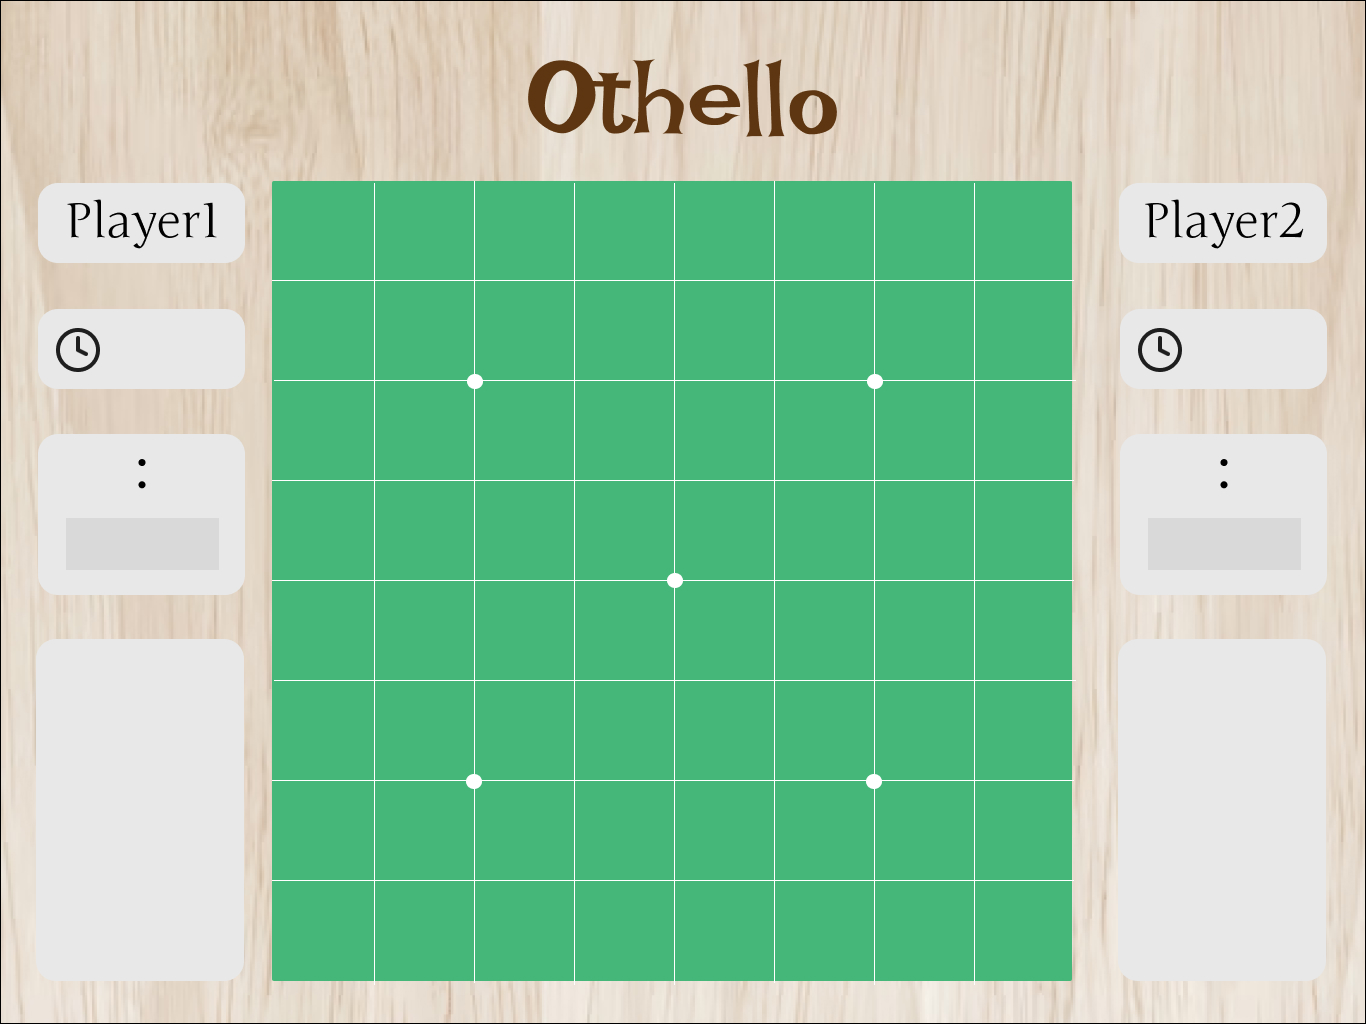
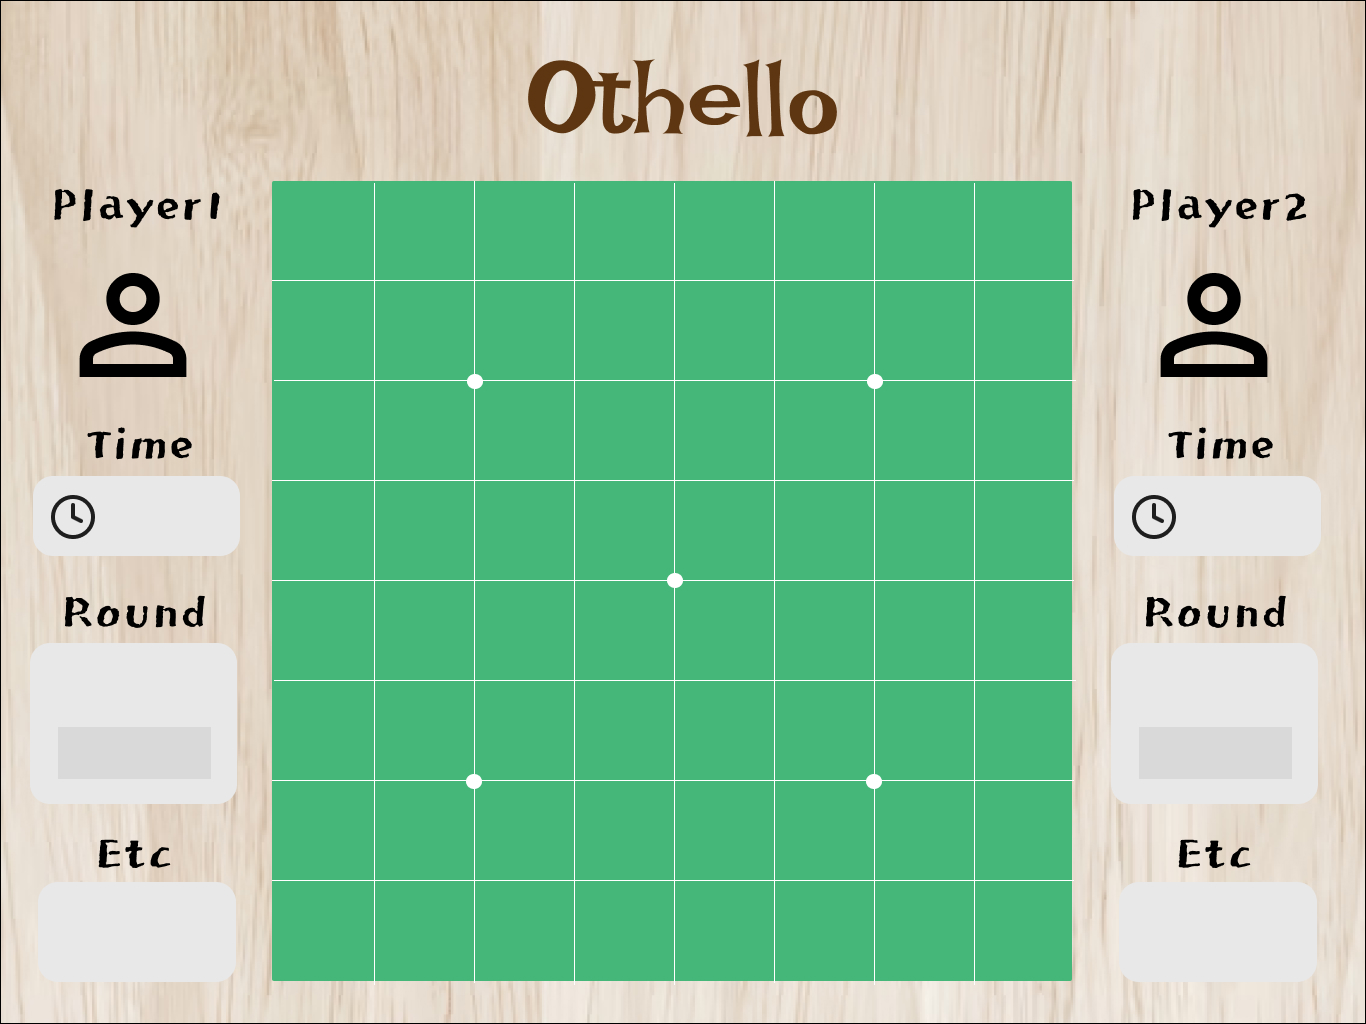
Project6_Othello Game 7/11 AM3:3

diff --git a/src/Main.java b/src/Main.java
@@ -7,16 +7,20 @@ public class Main extends JFrame {
 
     private JButton[][] button = new JButton[8][8]; // 버튼
     private JLabel[][] labels = new JLabel[8][8]; // 버튼 위에 바둑돌 사진
-    private JLabel player1_timerLabel = new JLabel(" ");
-    private JLabel player2_timerLabel = new JLabel(" ");
+    private JLabel player1_timerLabel = new JLabel("00");
+    private JLabel player2_timerLabel = new JLabel("00");
     private JLabel player1_scoreLabel = new JLabel(" ");
     private JLabel player2_scoreLabel = new JLabel(" ");
+    private JLabel player1_winsLabel = new JLabel("0 : 0"); // 플레이어1의 승리 라운드 레이블
+    private JLabel player2_winsLabel = new JLabel("0 : 0"); // 플레이어2의 승리 라운드 레이블
     private char[][] board = new char[8][8]; // 게임 보드 상태를 저장하는 2차원 배열
     private Timer player1_timer;
     private Timer player2_timer;
     private int player1_timeRemaining;
     private int player2_timeRemaining;
     private char currentPlayer = 'B'; // 게임 턴 - 흑인지 백인지
+    private int player1_wins = 0; // 플레이어1 승리 수
+    private int player2_wins = 0; // 플레이어2 승리 수
 
     // 바둑돌 및 별 이미지 경로
     private final String blackImagePath = "/Users/leeyunji/Desktop/2024_SummerStudy/Project6_OthelloGame/src/Image/black.png";
@@ -45,24 +49,34 @@ public class Main extends JFrame {
         add(ImagePanel);
 
         // 플레이어1 타이머 레이블 설정
-        player1_timerLabel.setBounds(85, 230, 100, 35);
+        player1_timerLabel.setBounds(87, 348, 100, 35);
         player1_timerLabel.setFont(new Font("Serif", Font.BOLD, 30));
         ImagePanel.add(player1_timerLabel);
 
         // 플레이어2 타이머 레이블 설정
-        player2_timerLabel.setBounds(875, 230, 100, 35);
+        player2_timerLabel.setBounds(877, 348, 100, 35);
         player2_timerLabel.setFont(new Font("Serif", Font.BOLD, 30));
         ImagePanel.add(player2_timerLabel);
 
         // 플레이어1 점수 레이블 설정
-        player1_scoreLabel.setBounds(95, 365, 100, 35);
+        player1_scoreLabel.setBounds(90, 512, 100, 35);
         player1_scoreLabel.setFont(new Font("Serif", Font.BOLD, 30));
         ImagePanel.add(player1_scoreLabel);
 
         // 플레이어2 점수 레이블 설정
-        player2_scoreLabel.setBounds(890, 365, 100, 35);
+        player2_scoreLabel.setBounds(885, 512, 100, 35);
         player2_scoreLabel.setFont(new Font("Serif", Font.BOLD, 30));
         ImagePanel.add(player2_scoreLabel);
+
+        // 플레이어1 승리 라운드 레이블 설정
+        player1_winsLabel.setBounds(62, 436, 200, 100);
+        player1_winsLabel.setFont(new Font("Serif", Font.PLAIN, 40));
+        ImagePanel.add(player1_winsLabel);
+
+        // 플레이어2 승리 라운드 레이블 설정
+        player2_winsLabel.setBounds(854, 436, 200, 100);
+        player2_winsLabel.setFont(new Font("Serif", Font.PLAIN, 40));
+        ImagePanel.add(player2_winsLabel);
 
         // 게임 시작 버튼--------------------------------------------------------------------------------
         JButton gameStart = new JButton("게임시작");
@@ -173,7 +187,6 @@ public class Main extends JFrame {
         initializeBoard();
         enableValidMoves();
         checkPassTurn(); // 턴 패스 확인
-
     }
 
     private void stopGame() { //---------------------------------------------------------------
@@ -410,13 +423,18 @@ public class Main extends JFrame {
 
         if (player1_timeRemaining <= 0) {
             stopGame();
+            player2_wins++;
+            player1_winsLabel.setText(player1_wins + ":" + player2_wins);
+            player2_winsLabel.setText(player2_wins + ":" + player1_wins);
             JOptionPane.showMessageDialog(this, "\uD83D\uDCA5 Game Over \uD83D\uDCA5 \n player2 가 이겼습니다 ~!");
-        }
-            else if (player2_timeRemaining <= 0) {
-                stopGame();
+        } else if (player2_timeRemaining <= 0) {
+            stopGame();
+            player1_wins++;
+            player1_winsLabel.setText(player1_wins + ":" + player2_wins);
+            player2_winsLabel.setText(player2_wins + ":" + player1_wins);
             JOptionPane.showMessageDialog(this, "\uD83D\uDCA5 Game Over \uD83D\uDCA5 \n player1 이 이겼습니다 ~!");
-        }else {
-                stopGame();
+        } else {
+            stopGame();
             int blackCount = 0, whiteCount = 0;
             for (int i = 0; i < 8; i++) {
                 for (int j = 0; j < 8; j++) {
@@ -427,12 +445,20 @@ public class Main extends JFrame {
                     }
                 }
             }
-            String winner = (blackCount > whiteCount) ? "\uD83C\uDF8A Player1 가 이겼습니다! \uD83C\uDF8A" : "\uD83C\uDF8A 축하합니다~! Player2 가 이겼습니다! \uD83C\uDF8A";
-            if (blackCount == whiteCount) {
+            String winner;
+            if (blackCount > whiteCount) {
+                winner = "\uD83C\uDF8A Player1 가 이겼습니다! \uD83C\uDF8A";
+                player1_wins++;
+            } else if (whiteCount > blackCount) {
+                winner = "\uD83C\uDF8A 축하합니다~! Player2 가 이겼습니다! \uD83C\uDF8A";
+                player2_wins++;
+            } else {
                 winner = "비겼습니다 ..!.! \n 한 번 더 ㄱ ??";
             }
+            player1_winsLabel.setText(player1_wins + " : " + player2_wins);
+            player2_winsLabel.setText(player2_wins + " : " + player1_wins);
             JOptionPane.showMessageDialog(this, "\uD83D\uDCA5 Game Over \uD83D\uDCA5 \nBlack: " + blackCount + "\nWhite: " + whiteCount + "\n" + winner);
-        } //else
+        }
         initializeBoard();
     }
 
